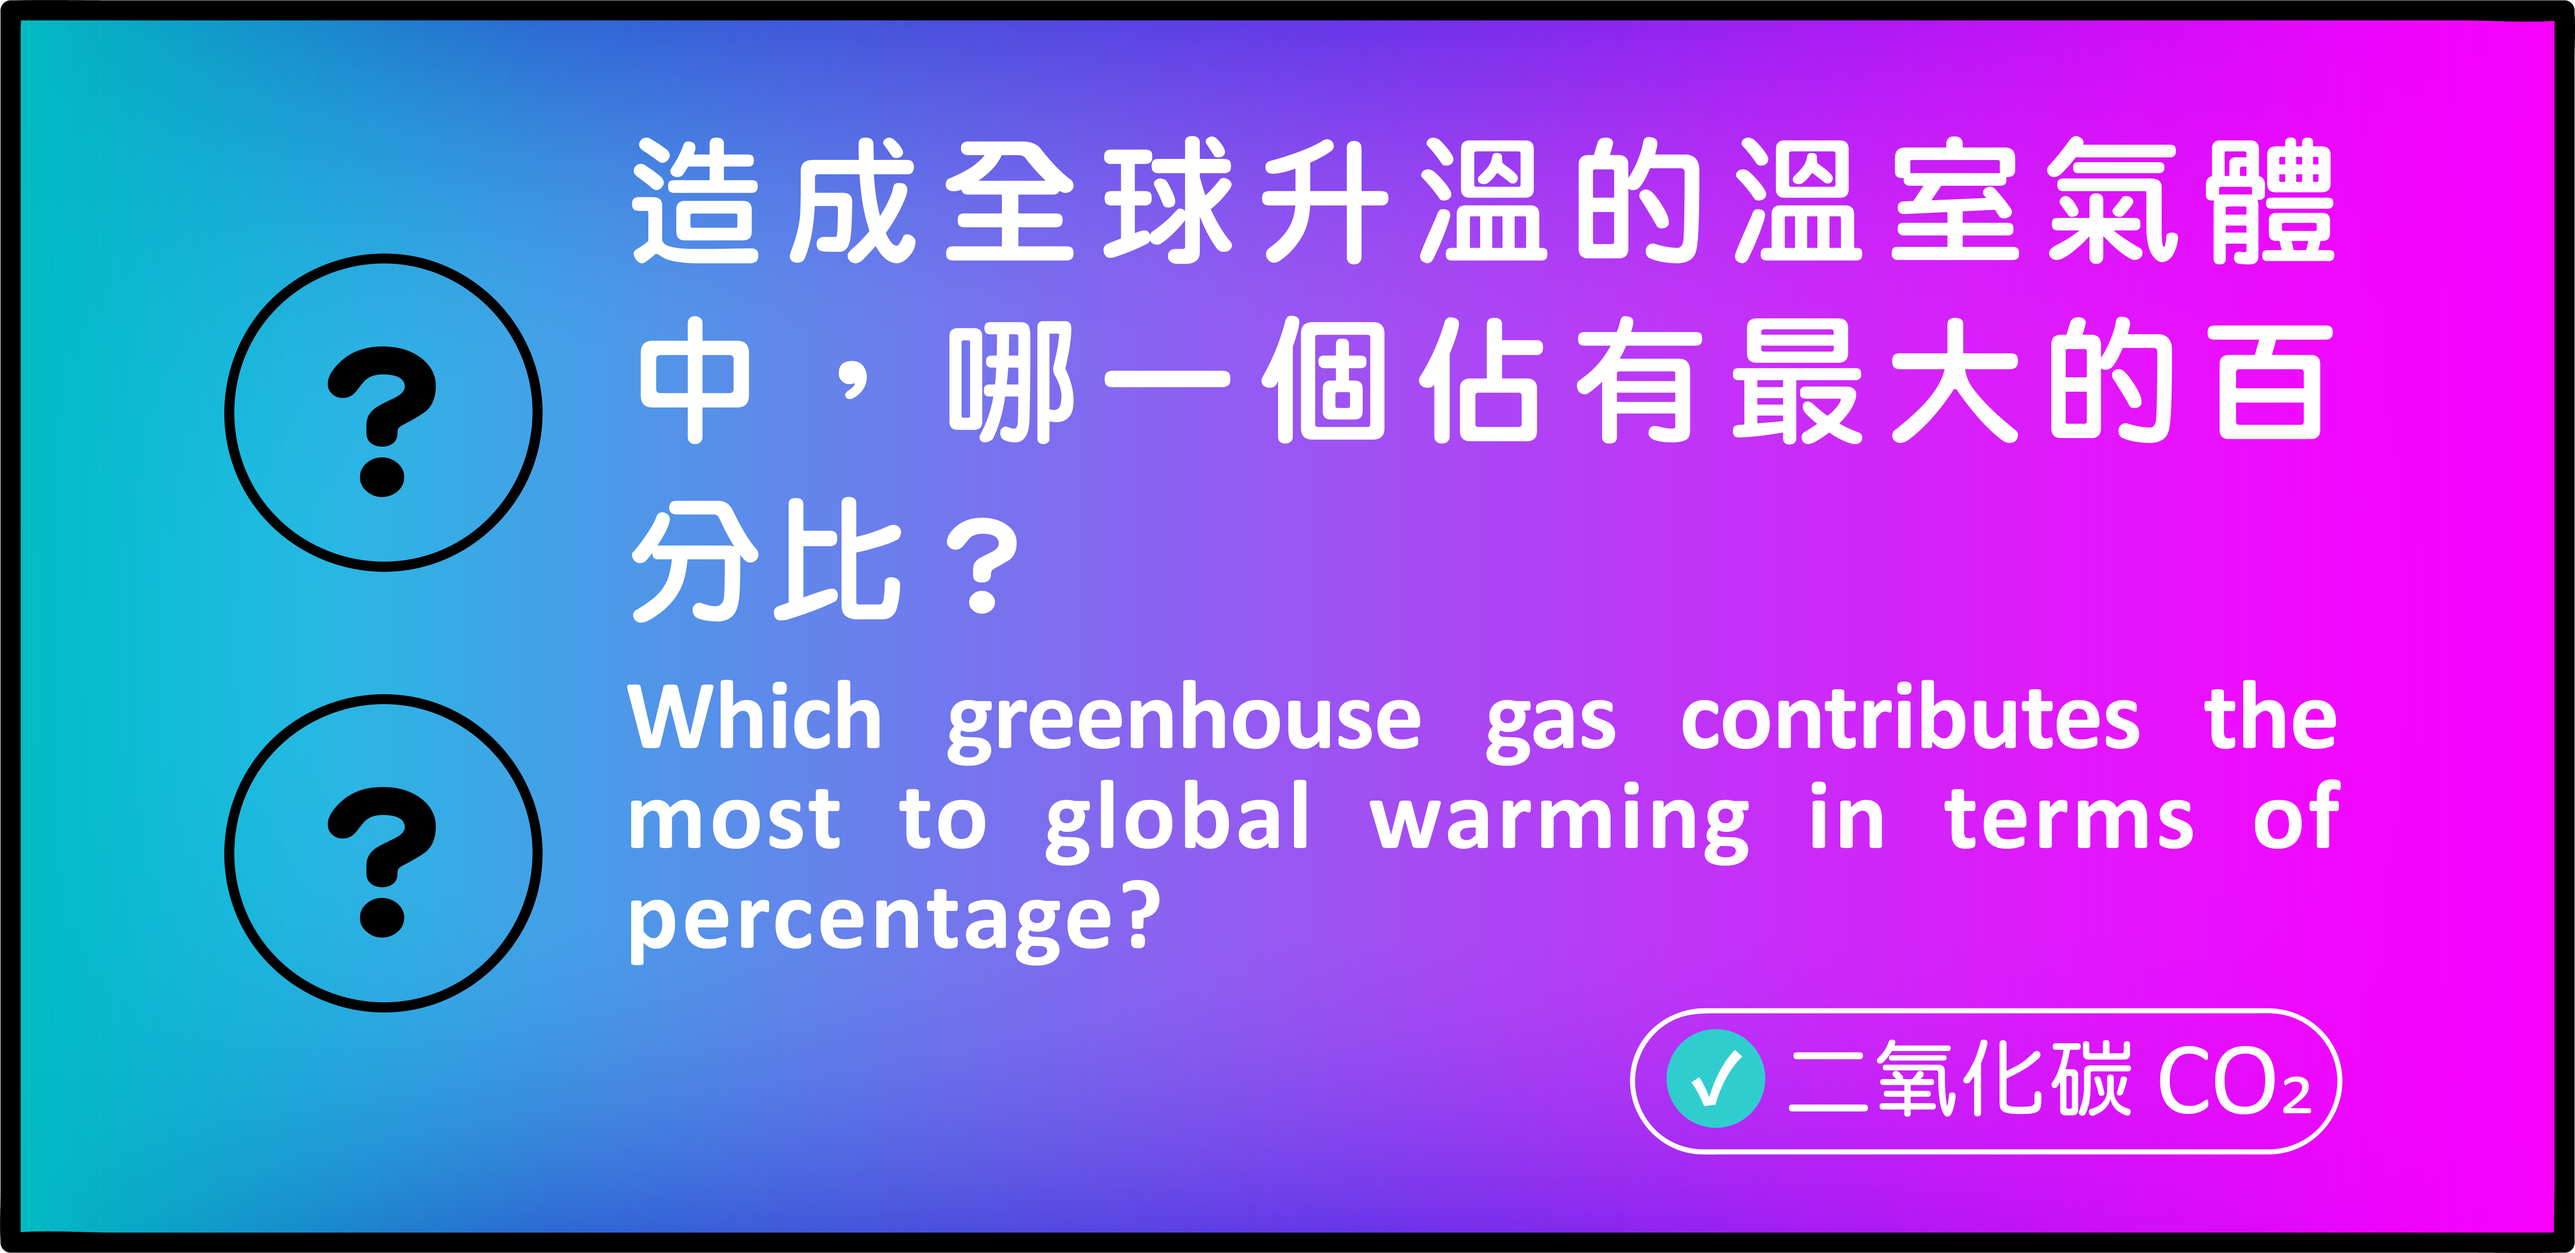
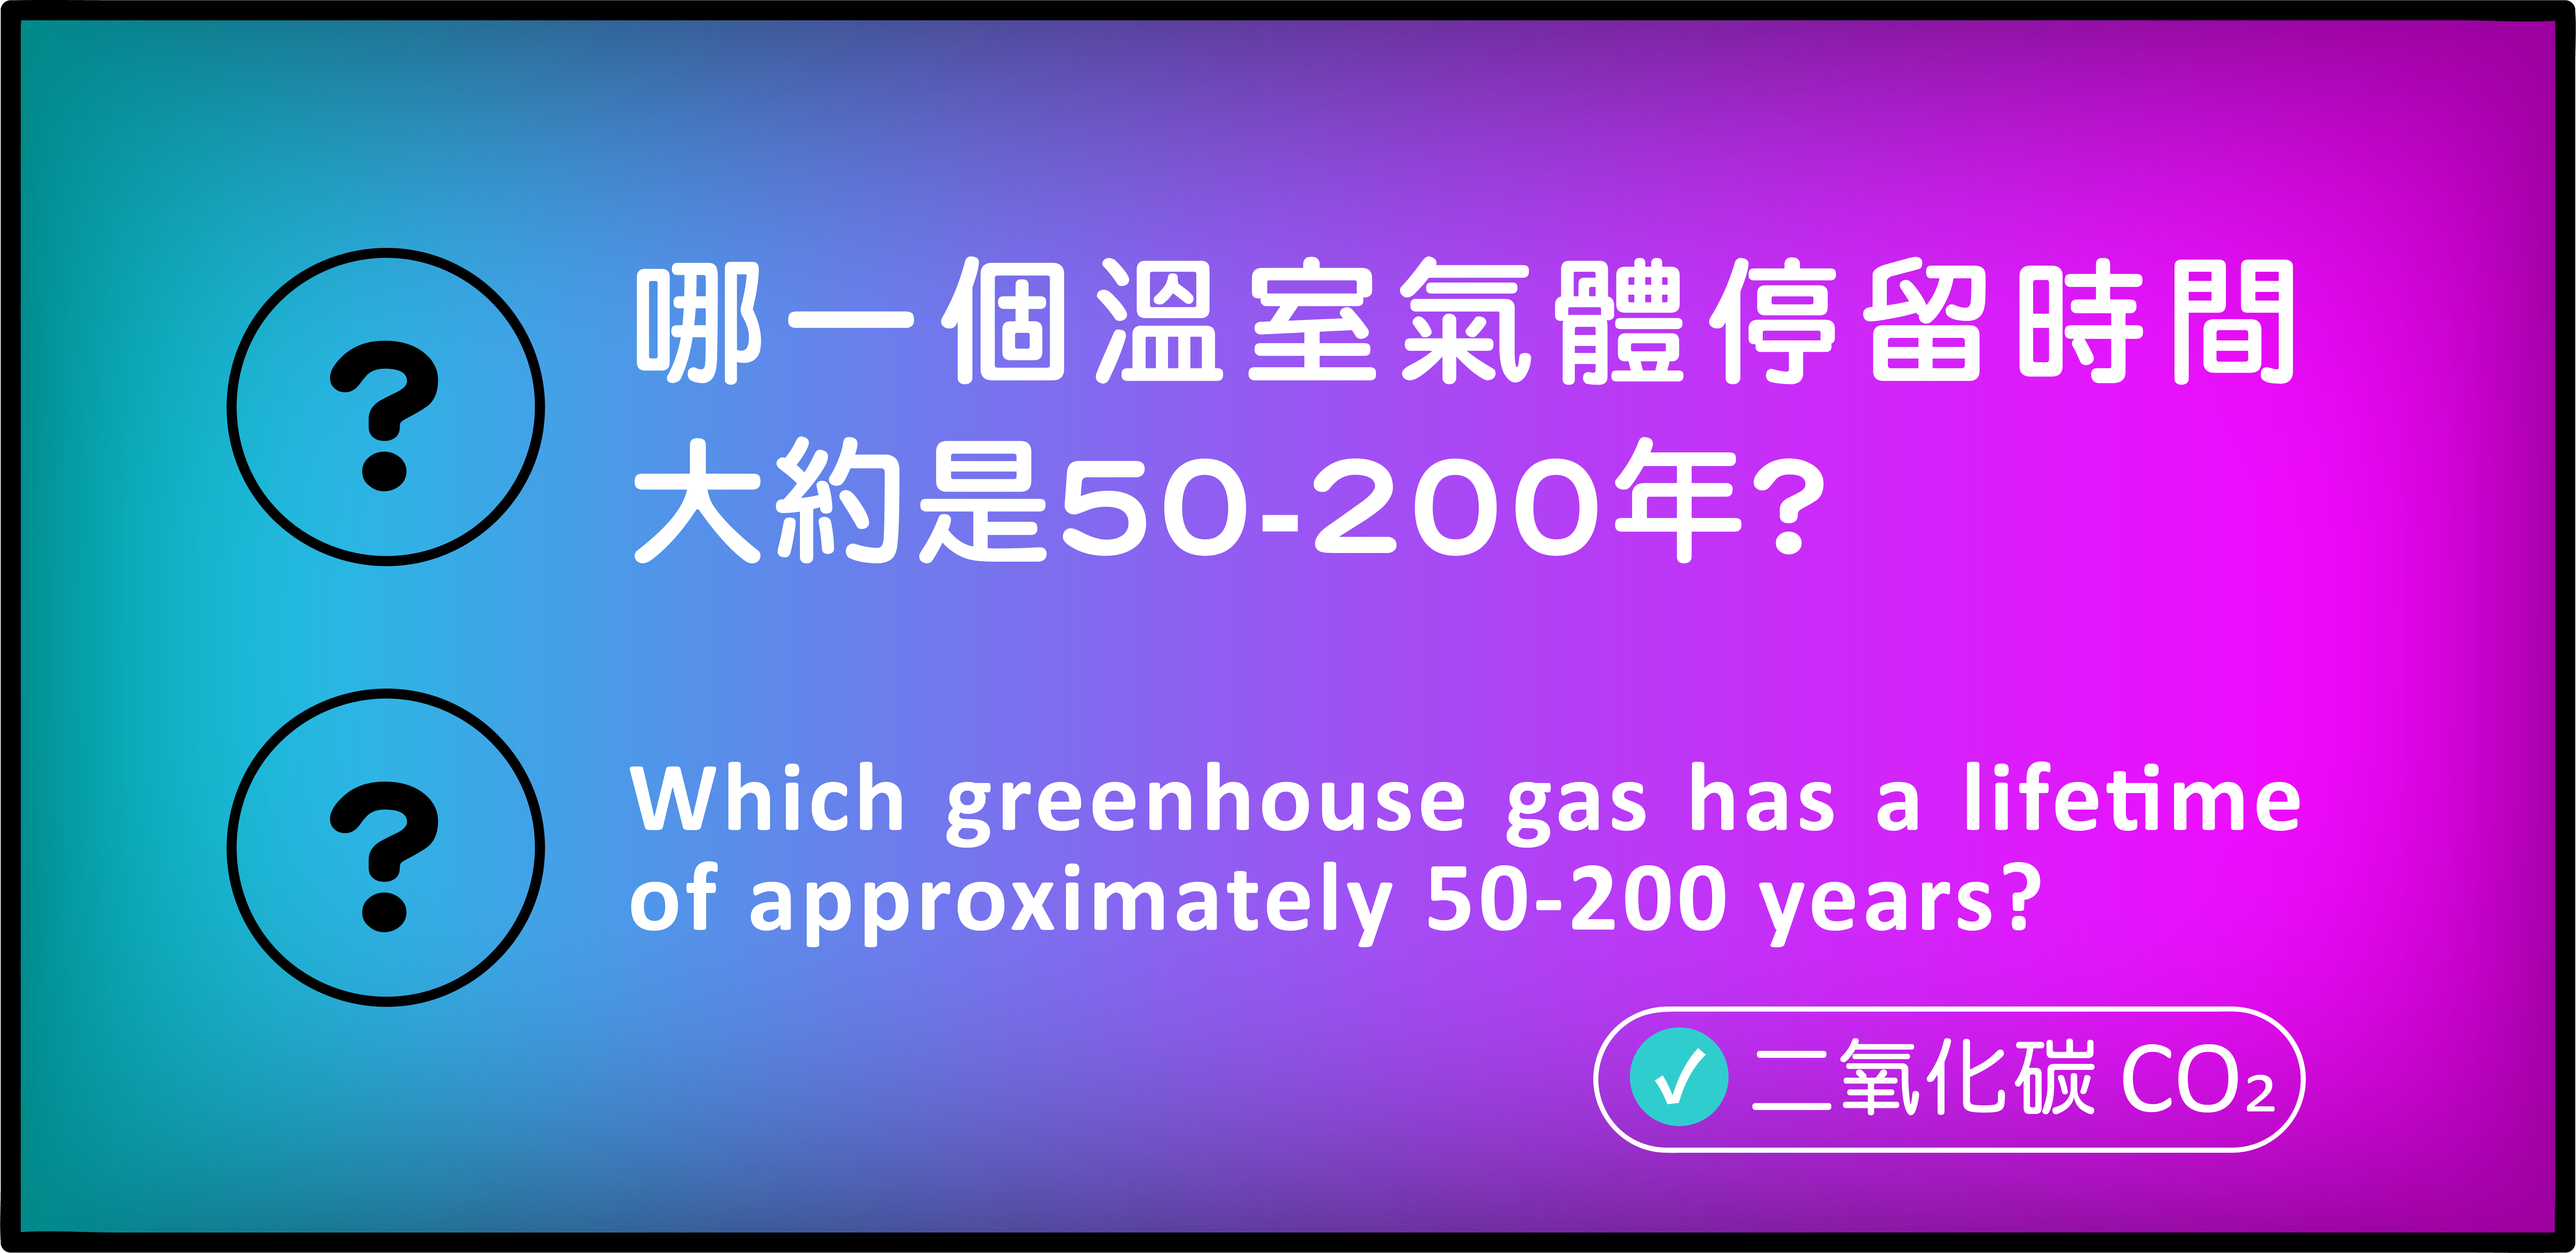
feat(green_house): random task

diff --git a/Green_House/Assets/Script/TaskController.cs b/Green_House/Assets/Script/TaskController.cs
@@ -1,0 +1,57 @@
+using UnityEngine;
+using UnityEngine.UI;
+using TMPro;
+
+public class TaskController : MonoBehaviour
+{
+    [SerializeField] private GameScene _gameScene;
+    [SerializeField] private Question _questionPanel;
+    [SerializeField] private GameObject _answerObjects;
+    [SerializeField] private GameObject[] _taskObjects;
+    [SerializeField] private Sprite[] _taskQuestionSprites;
+    [SerializeField] private Sprite[] _taskCorrectSprites;
+    [SerializeField] private Sprite[] _taskWrongSprites;
+    [SerializeField] private Sprite[] _taskButtonSprites;
+    [SerializeField] private int[] _answers;
+    private int[] taskList = new int[9];
+    private string keyboardList = "QAZWSX";
+    private void OnEnable()
+    {
+        RandomizeTasks();
+        for (int i = 0; i < taskList.Length; i++)
+        {
+            int taskIndex = taskList[i] - 1;
+            // _answers[i] = taskIndex;
+            _gameScene._answers[i] = _answers[taskIndex];
+            _taskObjects[i].GetComponent<Image>().sprite = _taskButtonSprites[taskIndex];
+            _questionPanel._questionSprites[i] = _taskQuestionSprites[taskIndex];
+            _questionPanel._questionCorrectSprites[i] = _taskCorrectSprites[taskIndex];
+            _questionPanel._questionErrorSprites[i] = _taskWrongSprites[taskIndex];
+        }
+        var answerPanel = _answerObjects.GetComponent<TextMeshPro>();
+        answerPanel.text = keyboardList[_answers[taskList[0] - 1] - 1].ToString() +
+                            keyboardList[_answers[taskList[3] - 1] - 1].ToString() +
+                            keyboardList[_answers[taskList[6] - 1] - 1].ToString() +
+                            keyboardList[_answers[taskList[1] - 1] - 1].ToString() +
+                            keyboardList[_answers[taskList[4] - 1] - 1].ToString() +
+                            keyboardList[_answers[taskList[7] - 1] - 1].ToString() +
+                            keyboardList[_answers[taskList[2] - 1] - 1].ToString() +
+                            keyboardList[_answers[taskList[5] - 1] - 1].ToString() +
+                            keyboardList[_answers[taskList[8] - 1] - 1].ToString();
+
+    }
+
+    private void RandomizeTasks()
+    {
+        taskList = new int[9];
+        for (int i = 0; i < taskList.Length; i++)
+        {
+            int num;
+            do
+            {
+                num = Random.Range(1, 10);
+            } while (System.Array.IndexOf(taskList, num) != -1);
+            taskList[i] = num;
+        }
+    }
+}

diff --git a/Green_House/Assets/Script/GameScene.cs b/Green_House/Assets/Script/GameScene.cs
@@ -9,7 +9,7 @@ public class GameScene : MonoBehaviour, TimerController
     [SerializeField] private Timer _endGameTimer;
     [SerializeField] private Question _questionPanel;
     [SerializeField] private Task[] _tasks;
-    [SerializeField] private int[] _answers;
+    public int[] _answers = new int[9];
     [SerializeField] private AudioClip _correctSound;
     [SerializeField] private AudioClip _errorSound;
     [SerializeField] private AudioClip _successSound;
@@ -30,6 +30,7 @@ public class GameScene : MonoBehaviour, TimerController
     {
         answerList = new int[9];
         _ansCount = 0;
+        _nowIndex = 0;
         _isSelected = false;
         _isAnswered = false;
         _isFinish = false;

diff --git a/Green_House/Assets/Script/Question.cs b/Green_House/Assets/Script/Question.cs
@@ -7,9 +7,9 @@ public class Question : MonoBehaviour
     [SerializeField] private Sprite _gameSuccess;
     [SerializeField] private Sprite _gameFailed;
     [SerializeField] private Image _questionImage;
-    [SerializeField] private Sprite[] _questionSprites;
-    [SerializeField] private Sprite[] _questionCorrectSprites;
-    [SerializeField] private Sprite[] _questionErrorSprites;
+    public Sprite[] _questionSprites = new Sprite[9];
+    public Sprite[] _questionCorrectSprites = new Sprite[9];
+    public Sprite[] _questionErrorSprites = new Sprite[9];
 
 
     public void Hide()
